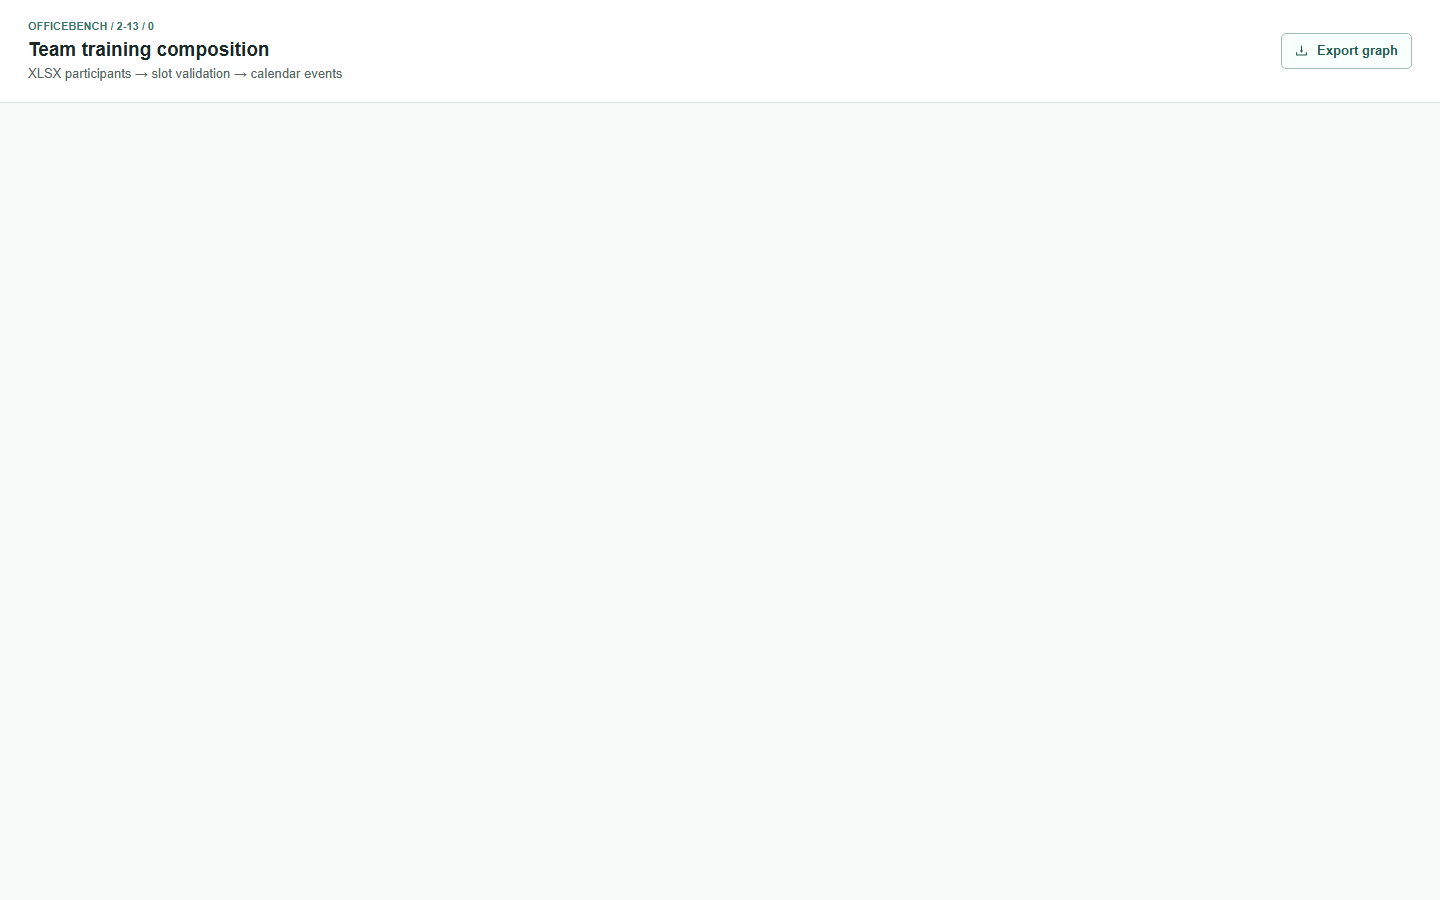
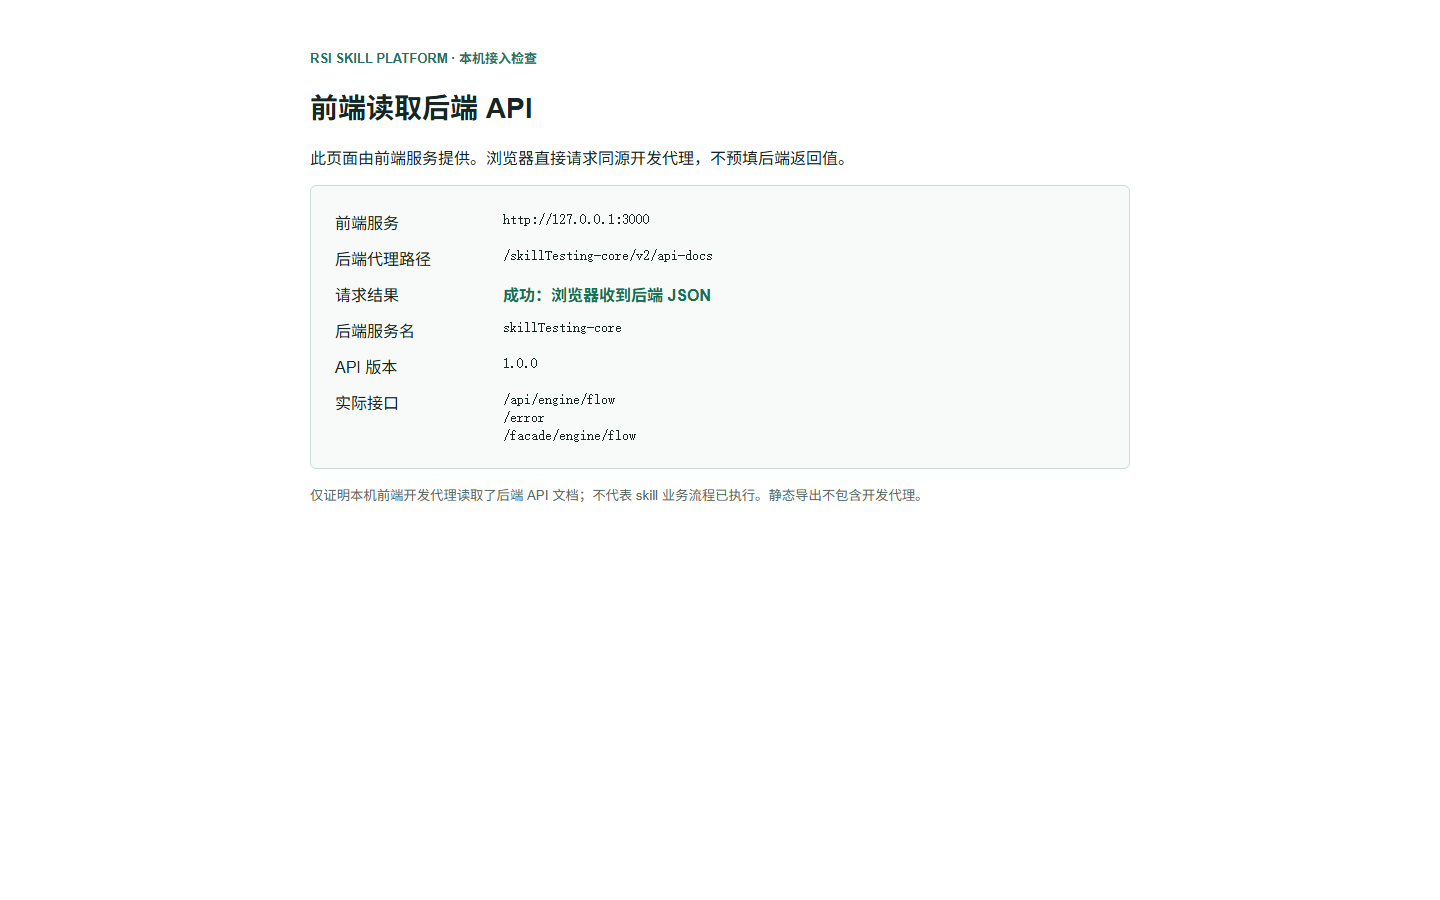
Add live integration and environment reproduction evidence

diff --git a/frontend-proof/integration-check.html b/frontend-proof/integration-check.html
@@ -1,0 +1,60 @@
+<!doctype html>
+<html lang="zh-CN">
+<head>
+  <meta charset="utf-8">
+  <meta name="viewport" content="width=device-width, initial-scale=1">
+  <title>RSI Skill Platform · 前后端接入检查</title>
+  <style>
+    body { font-family: Arial, sans-serif; margin: 48px auto; max-width: 820px; padding: 0 24px; color: #172524; }
+    header { font-size: 13px; color: #23715f; font-weight: 700; }
+    h1 { font-size: 28px; }
+    dl { display: grid; grid-template-columns: 150px 1fr; gap: 12px 18px; padding: 24px; border: 1px solid #cbdcd5; border-radius: 6px; background: #f7faf8; }
+    dd { margin: 0; overflow-wrap: anywhere; }
+    code { font-size: 14px; }
+    #status { font-weight: 700; color: #a63936; }
+    small { color: #536963; }
+  </style>
+</head>
+<body>
+  <header>RSI SKILL PLATFORM · 本机接入检查</header>
+  <h1>前端读取后端 API</h1>
+  <p>此页面由前端服务提供。浏览器直接请求同源开发代理，不预填后端返回值。</p>
+  <dl>
+    <dt>前端服务</dt><dd><code id="origin"></code></dd>
+    <dt>后端代理路径</dt><dd><code>/skillTesting-core/v2/api-docs</code></dd>
+    <dt>请求结果</dt><dd id="status">正在读取后端…</dd>
+    <dt>后端服务名</dt><dd><code id="service">待加载</code></dd>
+    <dt>API 版本</dt><dd><code id="version">待加载</code></dd>
+    <dt>实际接口</dt><dd id="paths">待加载</dd>
+  </dl>
+  <small>仅证明本机前端开发代理读取了后端 API 文档；不代表 skill 业务流程已执行。静态导出不包含开发代理。</small>
+  <script>
+    document.getElementById('origin').textContent = location.origin;
+    fetch('/skillTesting-core/v2/api-docs', { cache: 'no-store' })
+      .then(function (response) {
+        if (!response.ok) throw new Error('HTTP ' + response.status);
+        return response.json();
+      })
+      .then(function (data) {
+        if (!data.info || data.info.title !== 'skillTesting-core' || !data.paths) throw new Error('后端响应格式不符');
+        document.getElementById('service').textContent = data.info.title;
+        document.getElementById('version').textContent = data.info.version || '未提供';
+        var paths = document.getElementById('paths');
+        paths.replaceChildren();
+        Object.keys(data.paths).forEach(function (path) {
+          var line = document.createElement('div');
+          var code = document.createElement('code');
+          code.textContent = path;
+          line.appendChild(code);
+          paths.appendChild(line);
+        });
+        var status = document.getElementById('status');
+        status.textContent = '成功：浏览器收到后端 JSON';
+        status.style.color = '#16704f';
+      })
+      .catch(function (error) {
+        document.getElementById('status').textContent = '失败：' + error.message;
+      });
+  </script>
+</body>
+</html>

diff --git a/frontend-proof/versions-check.html b/frontend-proof/versions-check.html
@@ -1,0 +1,44 @@
+<!doctype html>
+<html lang="zh-CN">
+<head>
+  <meta charset="utf-8">
+  <meta name="viewport" content="width=device-width, initial-scale=1">
+  <title>环境版本及服务检查</title>
+  <style>
+    body { font-family: Arial, sans-serif; margin: 42px auto; max-width: 970px; padding: 0 24px; color: #192b28; }
+    h1 { font-size: 25px; margin: 0 0 12px; }
+    pre { font: 15px/1.5 Consolas, monospace; background: #f2f7f5; padding: 18px; border: 1px solid #ccddd6; border-radius: 5px; white-space: pre-wrap; overflow-wrap: anywhere; }
+    table { width: 100%; border-collapse: collapse; }
+    th, td { border-bottom: 1px solid #d5e3dc; text-align: left; padding: 10px; }
+    .ok { color: #16724c; font-weight: 700; }
+    .failed { color: #b22b2b; font-weight: 700; }
+  </style>
+</head>
+<body>
+  <h1>本机 Node / Java 版本与服务状态</h1>
+  <pre>$ node -v
+v24.21.0
+$ java -version
+openjdk version "1.8.0_512"
+OpenJDK Runtime Environment (Temurin)(build 1.8.0_512-b09)
+OpenJDK 64-Bit Server VM (Temurin)(build 25.512-b09, mixed mode)</pre>
+  <p>以上版本文字来自本机命令输出；下方端点由浏览器发起即时请求检查。</p>
+  <table>
+    <thead><tr><th>服务</th><th>请求地址</th><th>请求结果</th></tr></thead>
+    <tbody>
+      <tr><td>Node / Next 前端</td><td>http://127.0.0.1:3000/officebench</td><td id="frontend">检查中…</td></tr>
+      <tr><td>Java / Spring 后端</td><td>http://127.0.0.1:33477/v2/api-docs （通过前端代理）</td><td id="backend">检查中…</td></tr>
+    </tbody>
+  </table>
+  <p style="font-size:12px;color:#5e706b">此页用于归档版本及端点检查；命令版本应按复现文档在终端重跑。</p>
+  <script>
+    Promise.all([
+      fetch('/officebench').then(function (r) { if (!r.ok) throw Error('HTTP ' + r.status); document.getElementById('frontend').textContent = 'HTTP ' + r.status + ' · 前端页面可访问'; document.getElementById('frontend').className = 'ok'; }),
+      fetch('/skillTesting-core/v2/api-docs').then(function (r) { if (!r.ok) throw Error('HTTP ' + r.status); return r.json(); }).then(function (d) { if (d.info.title !== 'skillTesting-core') throw Error('服务名不符'); document.getElementById('backend').textContent = 'HTTP 200 · ' + d.info.title; document.getElementById('backend').className = 'ok'; })
+    ]).catch(function (error) {
+      var cells = [document.getElementById('frontend'), document.getElementById('backend')];
+      cells.forEach(function (cell) { if (cell.textContent === '检查中…') { cell.textContent = '失败：' + error.message; cell.className = 'failed'; } });
+    });
+  </script>
+</body>
+</html>

diff --git a/docs/REPRODUCE.md b/docs/REPRODUCE.md
@@ -1,0 +1,93 @@
+# Windows 本机复现记录（2026-11-24）
+
+本文复现的是 **Node 前端可访问、Java 后端可访问、前端代理可以读取后端 API 文档**，不是生产环境部署，也不是 skill 执行业务成功。教师源码仓库未复制到本公开仓库；需要自己从对应源仓库获取。后端私服配置须由有权限的老师提供，不要把凭据推到 GitHub。
+
+## 前置条件
+
+- Windows 11；Java 8（Temurin 1.8.0_512）；Maven 3.9.11；Node 24.21.0；pnpm 11.28.5；Docker Desktop + MySQL 8.0。
+- 将 `rsi-skill-spring-boot`、`rsi-skill-platform`、`rsi-flow-visual` 放在同一个父目录下。这些项目最初来自老师仓库 ZIP，并非本仓库包含它们的 Git 历史。
+- 获取有权访问 `com.horsecoder:auth:0.1.15` 等私有 Maven 依赖的个人 `settings.xml`，保存在仓库之外。不要使用源码中可能存在的 test/remote 数据库凭据。
+- 以下 PowerShell 命令中将 `$root`、`$maven`、`$node`、`$settings` 换成本机实际路径；在**不同终端**分别运行构建、后端和前端。不要在截图或日志中展示真实口令。
+
+## 1. 本地 MySQL
+
+启动 Docker Desktop，使用本机自设的口令创建一次容器；此端口仅绑定本机回环地址：
+
+```powershell
+# 容器已存在时使用 docker start liuanqi-skill-mysql，而不是重复 docker run。
+docker run --name liuanqi-skill-mysql `
+  -e MYSQL_ROOT_PASSWORD='<自行设置本地口令>' `
+  -e MYSQL_DATABASE=skill_local `
+  -p 127.0.0.1:3306:3306 -d mysql:8.0
+docker exec liuanqi-skill-mysql mysqladmin ping -h 127.0.0.1 -uroot -p
+```
+
+MySQL 镜像拉取受网络影响；本机在 Docker Hub 超时后使用 Docker 镜像代理拉取同版镜像。对新的复现者，优先尝试官方 `mysql:8.0`。仅这一步可能需要较长网络时间。
+
+## 2. 构建可视化库
+
+教师 `rsi-flow-visual` ZIP 不含 `dist`。本机为旧 Rollup 构建补充了 `@babel/preset-react@7.28.5`、`@babel/preset-typescript@7.28.5`、`@rollup/pluginutils@5.5.1` 和 `tslib@2.6.3`，并在其 `rollup.config.js` 的 Babel `presets` 列表加入 React/TypeScript presets。**未经相同调整，原 ZIP 的 `yarn build` 不保证成功；这不是无修改的一键复现。**
+
+```powershell
+$root = 'C:\path\to\three-sibling-projects'
+$node = 'C:\path\to\node-24\node.exe'
+$pnpm = 'C:\path\to\pnpm.mjs'
+Set-Location "$root\rsi-flow-visual"
+& $node $pnpm install --ignore-scripts --config.node-linker=hoisted
+& $node $pnpm add -D @babel/preset-react@7.28.5 @babel/preset-typescript@7.28.5 @rollup/pluginutils@5.5.1 tslib@2.6.3 --ignore-scripts --config.node-linker=hoisted
+# 同步调整 rollup.config.js 的 Babel presets 后：
+& $node .\node_modules\rollup\dist\bin\rollup -c
+Test-Path .\dist\index.js
+```
+
+本机旧版 Rollup TypeScript 插件在 Node 24 对其嵌套 `tslib` 的 `exports` 可能报 `Package subpath ... is not defined by "exports"`。此时按错误定位兼容性，或使用经老师确认的已打包可视化库；不可盲目声称旧仓库可原样构建。此工程版本组合尚不构成可保证“一小时内全自动复现”的标准安装包。
+
+## 3. 构建并启动 Java 后端
+
+```powershell
+$maven = 'C:\path\to\apache-maven-3.9.11\bin\mvn.cmd'
+$settings = 'C:\private\settings.xml' # 工作区外，禁止上传
+Set-Location "$root\rsi-skill-spring-boot"
+& $maven -s $settings -DskipTests package
+# 给本机启动时单独设置口令；下面写占位符，不要将真实值提交 Git。
+java -jar .\core-starter\target\core-starter-1.0.0-executable.jar `
+  --spring.profiles.active=dev `
+  '--spring.datasource.url=jdbc:mysql://127.0.0.1:3306/skill_local?useSSL=false&serverTimezone=Asia/Shanghai' `
+  --spring.datasource.username=root `
+  '--spring.datasource.password=<自行设置本地口令>' `
+  --eureka.client.enabled=false `
+  --spring.redis.host=127.0.0.1
+```
+
+待控制台出现 `Started AppStarter`、Tomcat 监听 33477，再访问 `http://127.0.0.1:33477/v2/api-docs`，应取得包含 `info.title = skillTesting-core` 的 JSON。后端默认开发配置指向远端数据库和 Eureka，本记录使用启动参数覆盖，不向老师服务写数据。
+
+## 4. 启动 Node 前端并测试代理
+
+```powershell
+Set-Location "$root\rsi-skill-platform"
+& $node $pnpm install --config.node-linker=hoisted
+# 若本地 file:../rsi-flow-visual 安装时未带入刚生成的 dist，先确认其依赖副本包含 dist/index.js。
+& $node .\node_modules\next\dist\bin\next dev --webpack -p 3000
+```
+
+验证：
+
+```powershell
+& $node -v
+java -version
+Invoke-RestMethod http://127.0.0.1:33477/v2/api-docs | Select-Object -ExpandProperty info
+Invoke-RestMethod http://127.0.0.1:3000/skillTesting-core/v2/api-docs | Select-Object -ExpandProperty info
+```
+
+前端原首页 `http://127.0.0.1:3000/`，研究草图 `http://127.0.0.1:3000/officebench`。把本仓库 `frontend-proof/integration-check.html` 和 `frontend-proof/versions-check.html` 放到教师前端工程 `public/` 下，再访问 `http://127.0.0.1:3000/integration-check.html`：页面里的脚本会在**浏览器中**发同源请求，成功才显示后端服务名、版本和路径；失败会显示错误。这两个自写的检查页只供开发验证，不是教师原项目自带页面。
+
+`next.config.ts` 原配置使用 `output: 'export'` 和开发专用 `rewrites`。`next build --webpack` 可导出静态页面，但**静态导出不会提供该开发代理**；应在 `next dev` 下检查连通。
+
+## 证据口径
+
+- [后端 Swagger 界面](../evidence/backend-swagger.png)证明后端 HTTP 界面可访问。
+- [前端实际读取后端数据的页面](../evidence/frontend-officebench.png)是浏览器成功请求后端代理、显示 `skillTesting-core` 和真实接口后才截取的；检查页源码见 [integration-check.html](../frontend-proof/integration-check.html)。
+- [版本与两服务状态](../evidence/versions-and-services.png)包含本机 `node -v`、`java -version` 输出的文字记录，并在浏览器即时确认两服务 HTTP 200；版本文字不是终端原始截图，复现者应在自己的终端重跑版本命令。
+- [HTTP 状态 JSON](../evidence/http-check.json)仅记录当时的本机测试结果；外人无法访问本机 `127.0.0.1`。
+
+构建时使用 `-DskipTests`；并未证明所有自动化测试或完整业务技能流程通过。不存在保证无私服配置或缺少可视化构建产物仍可复现的承诺。

diff --git a/README.md b/README.md
@@ -20,16 +20,21 @@
 | 后端 Maven 构建 | `-DskipTests package` 成功，生成 `core-starter-1.0.0-executable.jar`；未跑测试 | [详细记录](docs/LOCAL_VERIFICATION.md) |
 | 后端 API | `http://127.0.0.1:33477/v2/api-docs`，HTTP 200；Swagger 标题 `skillTesting-core` | [本机截图](evidence/backend-swagger.png) · [状态记录](evidence/http-check.json) |
 | 前端首页 | `http://127.0.0.1:3000/`，HTTP 200 | [状态记录](evidence/http-check.json) |
-| 前端新编排页 | `http://127.0.0.1:3000/officebench`，HTTP 200；编排画布页面 | [本机截图](evidence/frontend-officebench.png) · [状态记录](evidence/http-check.json) |
+| 前端新编排页 | `http://127.0.0.1:3000/officebench`，HTTP 200；编排画布页面 | [状态记录](evidence/http-check.json) |
+| 浏览器真实请求后端 | 前端服务提供的检查页经开发代理读取后端 JSON 并显示 `skillTesting-core`、`1.0.0` 与后端接口 | [连通截图](evidence/frontend-officebench.png) · [检查页源码](frontend-proof/integration-check.html) |
+| Node/Java 版本 | 本机 Node 24.21.0、Temurin Java 8；下方两服务状态由浏览器即时检查 | [版本与服务截图](evidence/versions-and-services.png) · [依赖表](docs/DEPENDENCIES.md) |
 | 前后端代理接入 | `http://127.0.0.1:3000/skillTesting-core/v2/api-docs`，HTTP 200 | [状态记录](evidence/http-check.json) |
 | 前端生产构建 | `next build --webpack` 成功导出首页及 `/officebench` | [详细记录](docs/LOCAL_VERIFICATION.md) |
 
-**验证边界：** 这些 `127.0.0.1` 地址只在本人电脑有效。HTTP 200 证明本地页面、API 文档与开发代理可访问，**不等于**注册、检索或执行 skill 全链路成功。发送空结构到流程 API 得到业务层 HTTP 700，没有把它算作成功。原工程的生产构建配置跳过 TypeScript 类型错误；未声称全量类型检查通过。静态导出不会自动保留开发代理。
+**验证边界：** 这些 `127.0.0.1` 地址只在本人电脑有效。浏览器检查页成功读取后端 JSON 证明前后端开发代理接入，**不等于**注册、检索或执行 skill 全链路成功。发送空结构到流程 API 得到业务层 HTTP 700，没有把它算作成功。原工程的生产构建配置跳过 TypeScript 类型错误；未声称全量类型检查通过。静态导出不会自动保留开发代理。此公开仓库不包含教师前后端工程源码，挑战档复现依赖项目源码、私服授权和可视化库兼容性调整，不能保证仅凭本仓库一小时内无阻碍复现。
 
 ## 本仓库内容
 
 - `evidence/http-check.json`：2026-11-24 的四个端点 HTTP 状态及后端 Swagger 标题，不含 API 响应数据。
 - `evidence/backend-swagger.png`：本机后端 Swagger UI 截图。
-- `evidence/frontend-officebench.png`：独立的前端 OfficeBench 页面截图；页面只展示人工编排设计，不代表 skill 实际执行。
-- `docs/LOCAL_VERIFICATION.md`：完整的运行范围、限制和源码上传注意事项。
+- `evidence/frontend-officebench.png`：前端实际请求 `/skillTesting-core/v2/api-docs` 后展示后端服务名、版本和接口的截图；对应自写检查页源码在 `frontend-proof/integration-check.html`，不是原项目前端自带的功能。
+- `evidence/versions-and-services.png`：版本输出文字记录与浏览器即时验证的两服务 HTTP 200；版本部分不是终端原始截图，复核时请重跑 `node -v` 和 `java -version`。
+- `docs/REPRODUCE.md`：按顺序整理的本机启动、验证命令及已知安装阻碍。
+- `docs/DEPENDENCIES.md`：本机依赖版本清单。
+- `docs/LOCAL_VERIFICATION.md`：本机验证结果。
 

diff --git a/docs/DEPENDENCIES.md b/docs/DEPENDENCIES.md
@@ -1,0 +1,21 @@
+# 本机依赖与构建版本
+
+采集日期：2026-11-24（Windows 11）。这是本机已使用的版本清单，公开仓库不包含教师项目源码、私服凭据或依赖二进制。
+
+| 组件 | 验证版本 | 作用与边界 |
+| --- | --- | --- |
+| Java | Temurin OpenJDK 1.8.0_512 | 构建/运行 Spring Boot 后端；`java -version` |
+| Apache Maven | 3.9.11 | 后端多模块构建，需本人私有 `settings.xml` |
+| Node.js | 24.21.0 | 前端构建和运行；显式使用 Node 24，本机 PATH 上的 Node 26 未用于本次验证 |
+| pnpm | 11.28.5 | 本机前端和可视化库的依赖安装 |
+| Next.js | 16.2.6 | 前端仓库 `package.json` 的版本；开发环境用 `--webpack` |
+| React | 19.2.4 | 前端仓库 `package.json` 的版本 |
+| Spring Boot | 2.1.9.RELEASE | 后端 Maven 父 POM 的版本 |
+| MySQL | 8.0 容器镜像 | 仅回环地址的本地空 `skill_local` 库；未持久化到仓库 |
+| Docker Engine | 29.9.3 | 本机运行 MySQL 容器时的服务端版本 |
+| rsi-flow-visual | 0.3.12（仓库 `package.json`） | 前端 `file:../rsi-flow-visual` 依赖；教师 ZIP 不含 `dist` |
+| @horsecoder/flow | 1.0.3（教师前端包含的本地包） | 流程包，不从公网仓库直接推断可安装 |
+
+旧版可视化库在本机额外使用 `@babel/preset-react@7.28.5`、`@babel/preset-typescript@7.28.5`、`@rollup/pluginutils@5.5.1` 和 `tslib@2.6.3`，并调整 Babel presets。官方原始仓库版本与本机修复不同，具体复现风险及操作见 [REPRODUCE.md](REPRODUCE.md)。
+
+后端还依赖 Maven 私服包 `com.horsecoder:auth:0.1.15`；缺失私服授权会在构建阶段失败。**不上传** `settings.xml`、`.env`、测试环境数据库凭据、`node_modules`、`.m2`、`target`、`.next` 和构建产物。

diff --git a/docs/LOCAL_VERIFICATION.md b/docs/LOCAL_VERIFICATION.md
@@ -17,7 +17,9 @@
 | 后端启动 | `java -jar ... --spring.profiles.active=dev`，本地 MySQL，关闭 Eureka | Spring Boot 启动，端口 33477 |
 | 后端 API 文档 | `http://127.0.0.1:33477/v2/api-docs` | HTTP 200，标题 `skillTesting-core` |
 | 前端开发服务 | Node 24 + `next dev --webpack -p 3000` | 首页 `http://127.0.0.1:3000/` HTTP 200 |
-| 前后端连接 | `http://127.0.0.1:3000/skillTesting-core/v2/api-docs` | 通过 Next 开发代理 HTTP 200 |
+| 前后端连接 | `http://127.0.0.1:3000/skillTesting-core/v2/api-docs` | 通过 Next 开发代理 HTTP 200；浏览器从前端检查页实际读到后端返回的 `skillTesting-core`、版本和 3 个 API 路径 |
+| 版本 | `node -v` / `java -version` | Node 24.21.0 / Temurin Java 1.8.0_512；文字记录在版本截图，复核者应在自己的终端重跑 |
 | 前端打包 | `next build --webpack` | 首页和 `/officebench` 两个静态页面构建成功 |
-| 个人编排页面 | `http://127.0.0.1:3000/officebench` | HTTP 200，可视化画布与导出按钮可渲染；未证明实际运行技能 |
+| 个人编排页面 | `http://127.0.0.1:3000/officebench` | HTTP 200，可视化画布页面；未证明实际运行技能 |
 
+[前端连通性截图](../evidence/frontend-officebench.png)在浏览器执行 [检查页脚本](../frontend-proof/integration-check.html)，仅在实际请求同源开发代理并收到 `skillTesting-core` 的 API 文档后截取。[后端 Swagger 截图](../evidence/backend-swagger.png)单独证明 Java 服务可访问。[版本与服务截图](../evidence/versions-and-services.png)的版本文字来自本机命令输出，但不是终端原始截图；现场复核可运行 [验证脚本](../scripts/verify-local.ps1) 或按 [复现步骤](REPRODUCE.md) 重跑。
